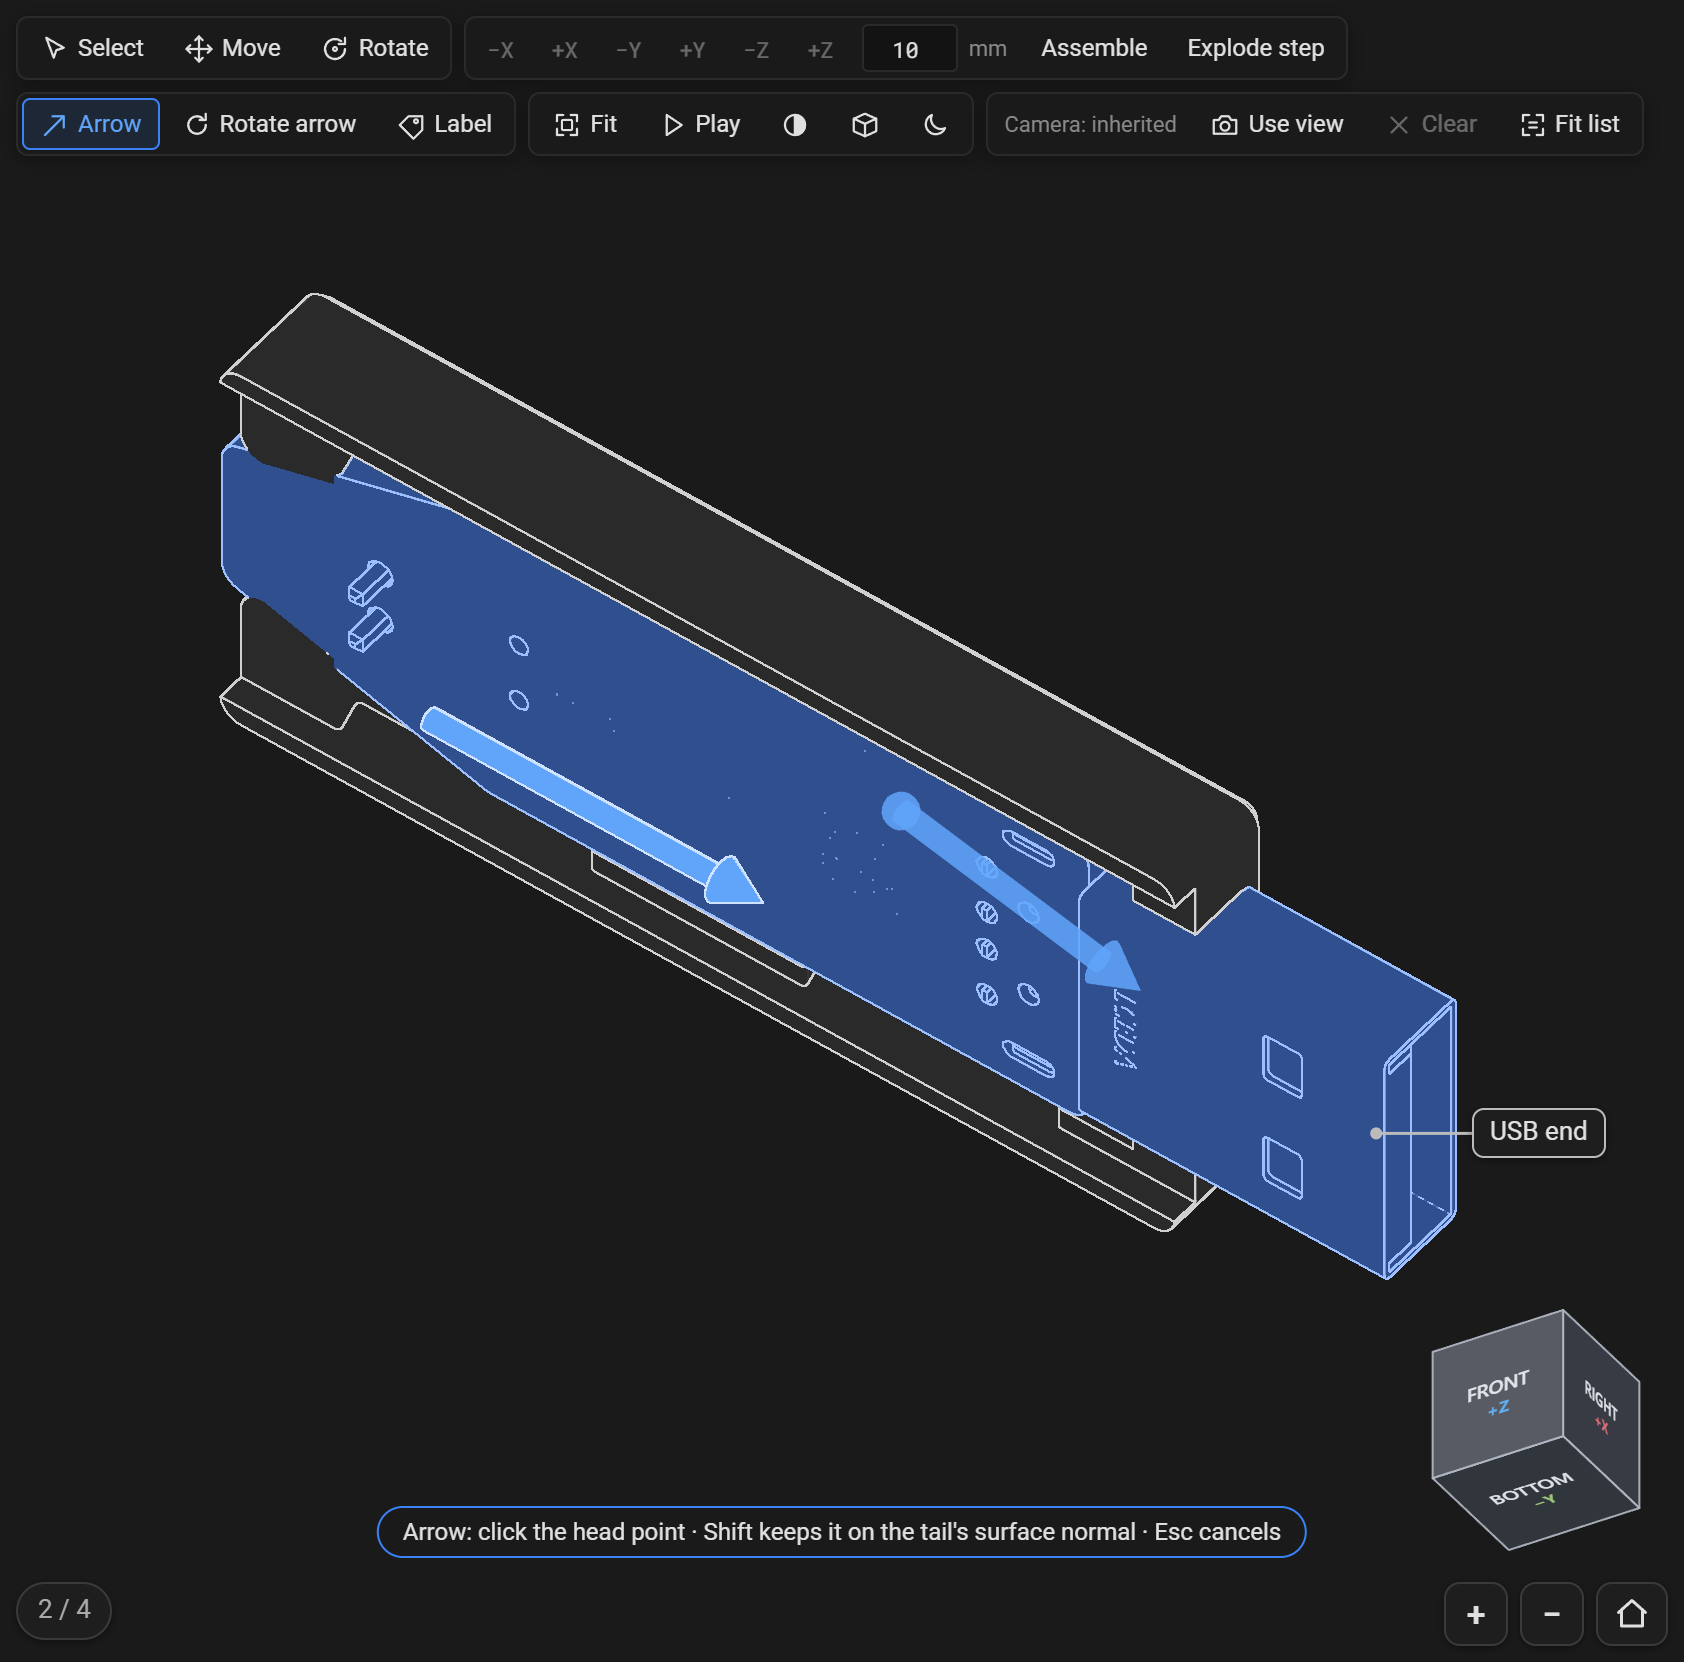
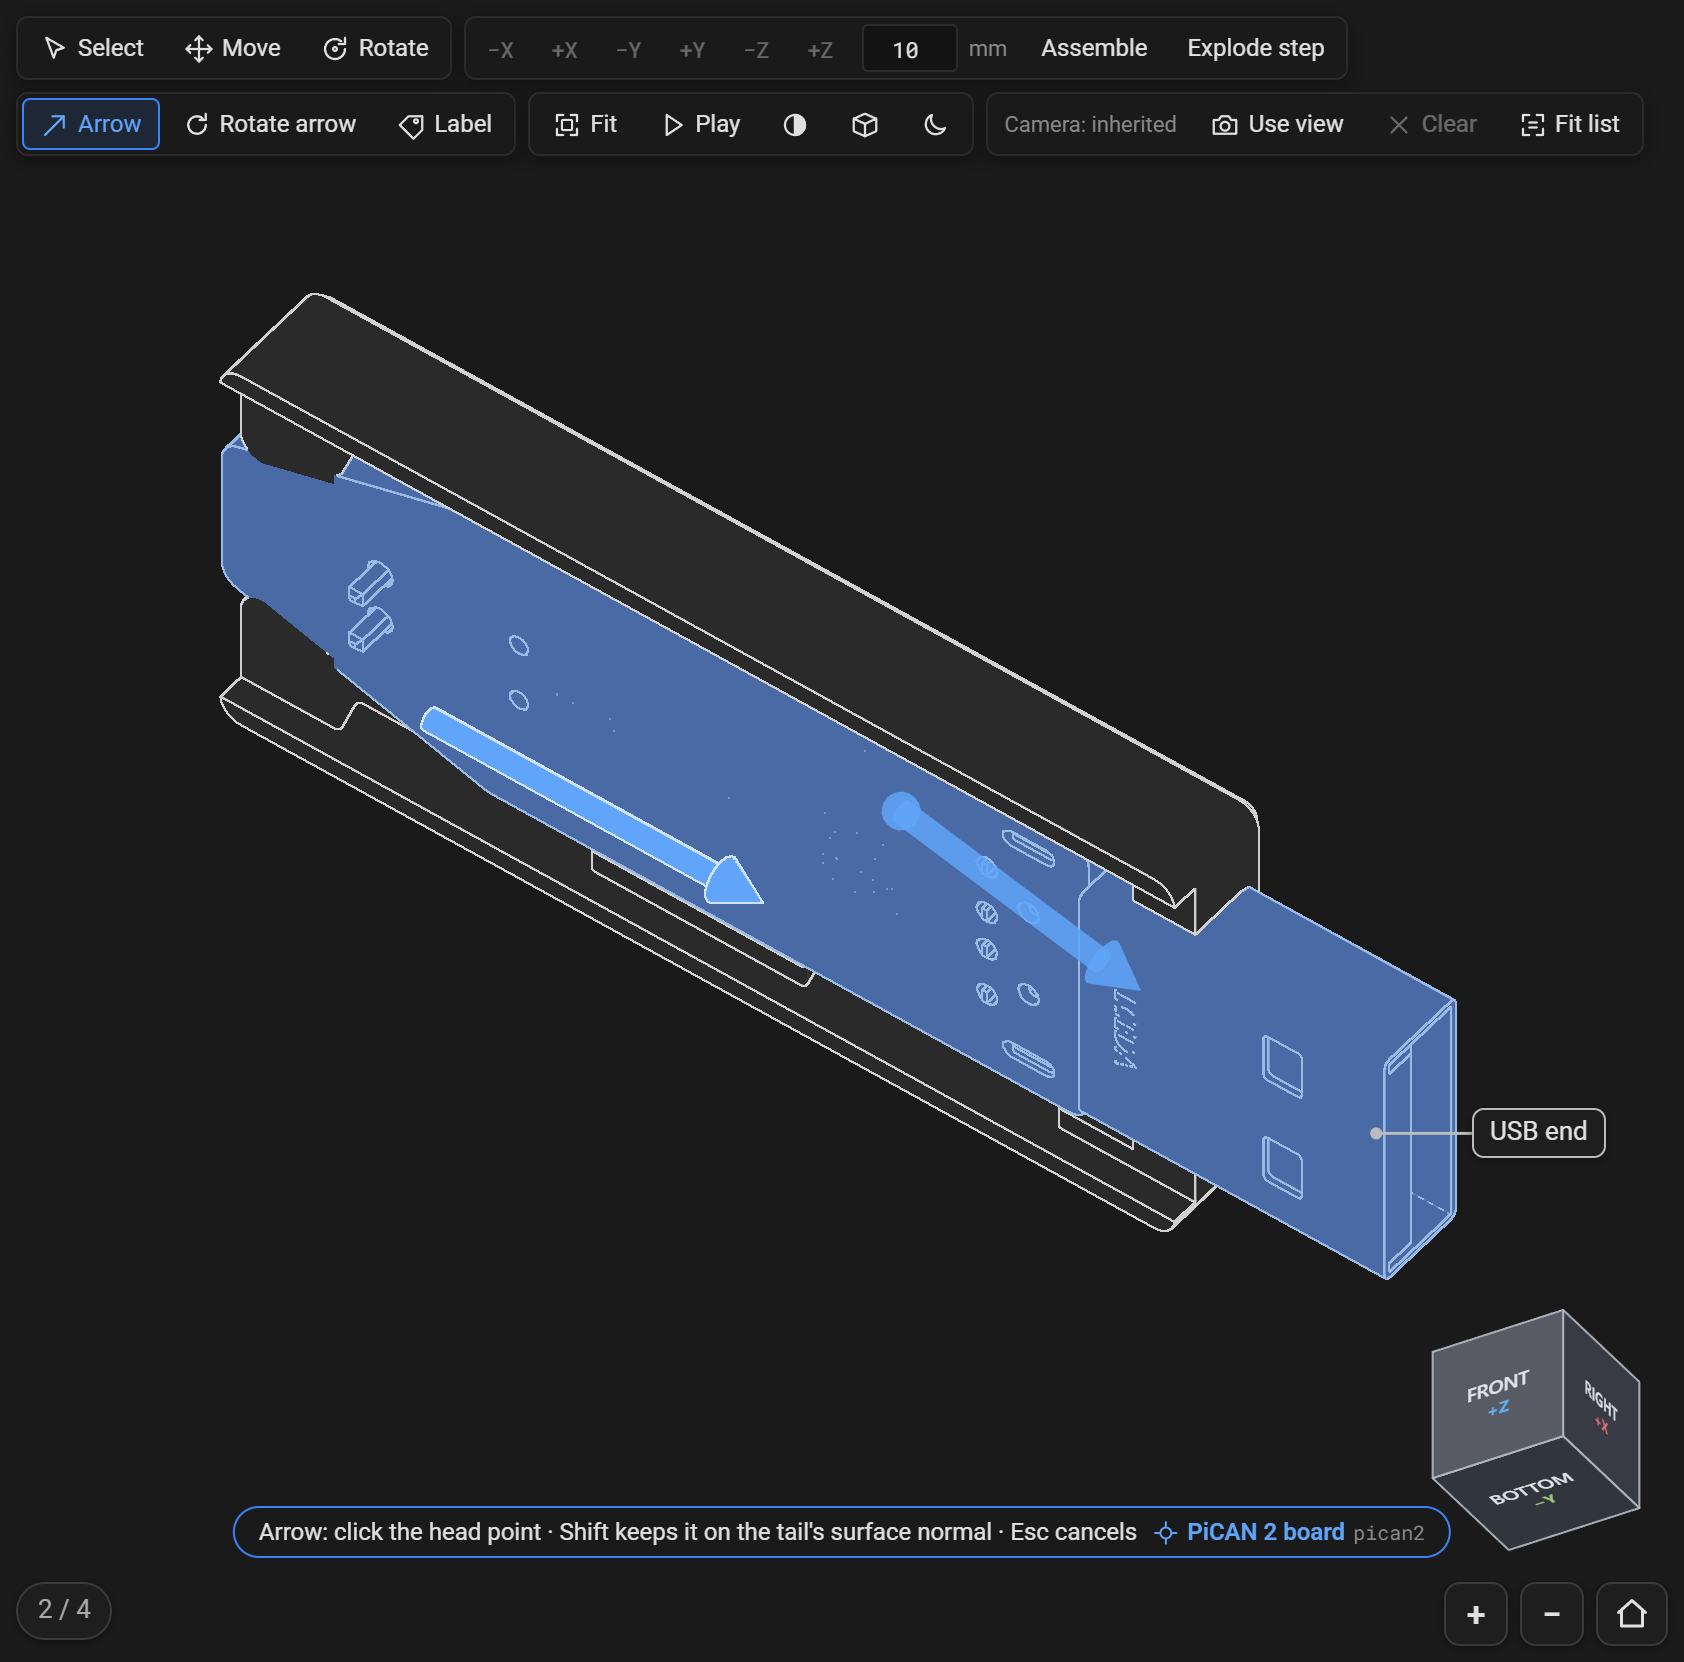
Say that the designer marks the part a click would hit
The Arrow, Rotate arrow and Label tools, and the inspector's Pick and Pick fit, take the first surface under the pointer, which is the front part where one part lies in front of another. While one of them waits for a click, the designer now tints the part the click would land on and names it after the prompt. designer.md says so, and workflow-7-arrow.png is regenerated with tools/3dstep-designer-screenshots to show it (the other designer shots did not change).

Changed region(s): [[0.1235, 0.2455, 0.8646, 0.7671], [0.4323, 0.9206, 0.8337, 0.9513], [0.1544, 0.8899, 0.4014, 0.9513]]

diff --git a/docs/3dstep/designer.md b/docs/3dstep/designer.md
@@ -149,7 +149,9 @@ A **move** places parts for the current step only, relative to their assembled p
 
 Arrows and labels placed with the tools are **attached** to the part you click: their points are stored in that part's frame, so they travel with it while it moves. While you place an arrow, a preview follows the pointer and a line at the bottom of the viewport says what the next click does:
 
-![The Arrow tool halfway: the tail placed on the board and a preview of the arrow following the pointer, with the prompt along the bottom of the viewport](../assets/3dstep/workflow-7-arrow.png)
+![The Arrow tool halfway: the tail placed on the board and a preview of the arrow following the pointer; the board under the pointer is tinted, and the prompt along the bottom of the viewport ends with its name](../assets/3dstep/workflow-7-arrow.png)
+
+A click lands on the first surface under the pointer, so where one part lies in front of another, it takes the front one. While the Arrow, Rotate arrow or Label tool is active, or the inspector's **Pick** or **Pick fit…** waits for a click, the part a click would land on is tinted with a softer version of the selection color, and its name and id follow the prompt.
 
 `Esc` cancels a tool's pending click, then goes back to **Select**; with **Select** active it clears the selection.
 
